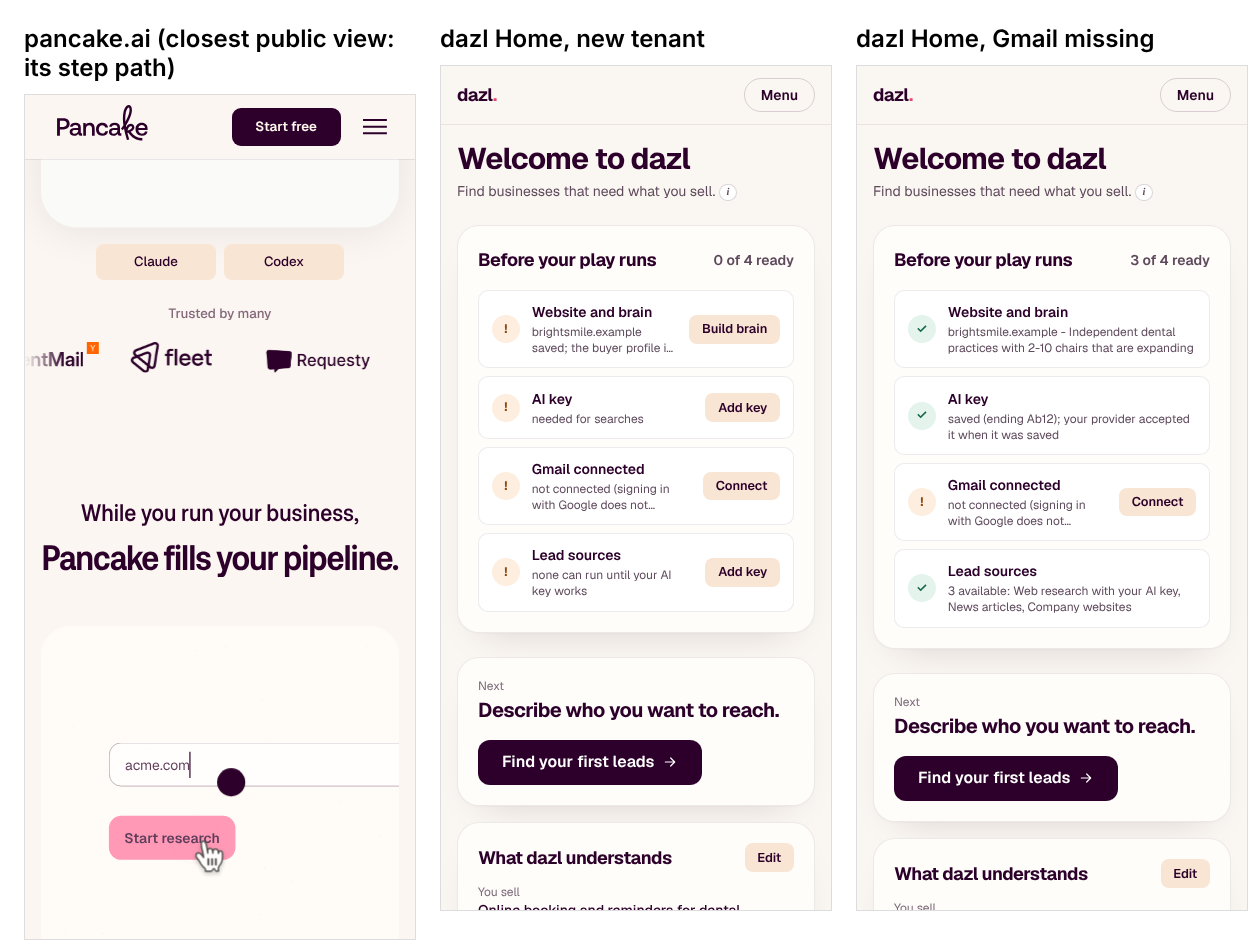
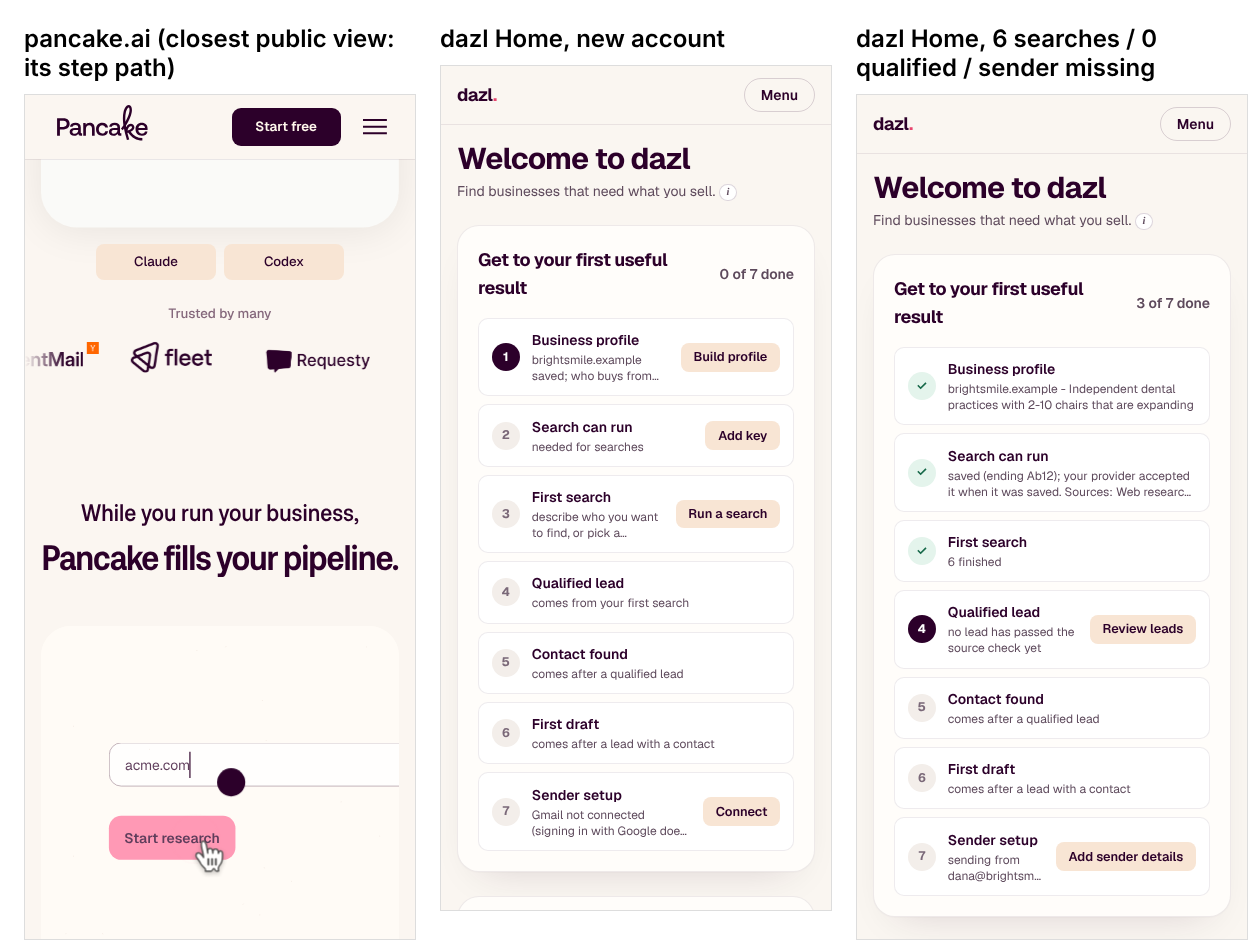
Home setup checklist: seven steps to the first useful result
Business profile -> search can run -> first search -> qualified lead ->
contact -> draft -> sender setup (Hermes #11), replacing the four-item
card. Qualified, contact and draft come from the campaigns read's complete
per-search counts (source-checked or confirmed by you, leads with a
contact, drafts) and the emails read; a capped or failed read is 'could
not check' with no button. Each step still to do that the user can act on
has one button straight to its fix; steps that wait on an earlier one have
none. The first actionable step is marked next. Sender setup separates
Gmail from the missing sender name and mailing address.

Claude-Session: https://claude.ai/code/session_01CafonXdzjwkFYiMRJWtsKo

diff --git a/web/lib/ready-card.ts b/web/lib/ready-card.ts
@@ -1,42 +1,84 @@
 import { readinessRows, type ReadinessInput, type Row } from './readiness.ts'
 import { coreSources, socialSources } from './scan/source-availability.ts'
 
-// Home's "ready to run" card: the four things a play needs to run well (website and brain, AI key, Gmail, lead
-// sources), read from the same rows as the full setup checklist (lib/readiness.ts), so the two never disagree. Pure and
-// client-safe. Each missing item has one link that goes straight to its fix; a row that could not be checked says so
-// and offers no fix. Sources are named only when a scan here can really use them.
+// Home's setup checklist toward the first useful result: business profile -> search can run -> first search ->
+// qualified lead -> contact -> draft -> sender setup. Read from the same tenant responses and rows as the full setup
+// checklist (lib/readiness.ts), so the two never disagree. Pure and client-safe. A step is done only on positive
+// evidence; a read that failed, or a capped read that found nothing, is "could not check" with no button. Each step
+// that is still to do has one button straight to its fix. Sources are named only when a scan here can use them.
 
-export type ReadyId = 'brain' | 'key' | 'gmail' | 'sources'
-export interface ReadyItem { id: ReadyId; label: string; state: Row['state']; detail: string; fix: { href: string; label: string } | null }
+export type ReadyId = 'profile' | 'search' | 'play' | 'qualified' | 'contact' | 'draft' | 'sender'
+export interface ReadyItem { id: ReadyId; label: string; state: Row['state']; detail: string; fix: { href: string; label: string } | null; next?: boolean }
 
-const KEY_FIX = '/app/settings#model-key'
+const KEY_FIX = '/app/settings#model-key', GMAIL_FIX = '/app/settings#gmail'
+// The reads' caps (lib/readiness.ts): a list this long may be missing older history.
+const CAMPAIGNS_CAP = 10, MESSAGES_CAP = 200, JOBS_CAP = 20
 
 export function readyItems(i: ReadinessInput): ReadyItem[] {
   const rows = readinessRows(i)
   const row = (id: Row['id']) => rows.find(r => r.id === id)!
-  const site = row('site'), brainRow = row('brain'), key = row('key'), gmail = row('gmail'), src = row('sources')
+  const site = row('site'), brainRow = row('brain'), key = row('key'), gmail = row('gmail'), sender = row('sender'), src = row('sources')
+  const unknown = (id: ReadyId, label: string, detail: string): ReadyItem => ({ id, label, state: 'unknown', detail, fix: null })
 
-  // Website and brain together: what dazl read from your site. The website is fixed first (the brain is drafted from it).
+  // 1. Business profile: the website, and the buyer profile drafted from it.
   const p = i.profile
-  const brain: ReadyItem = site.state === 'unknown' || brainRow.state === 'unknown' ? { id: 'brain', label: 'Website and brain', state: 'unknown', detail: site.detail, fix: null }
-    : !p?.website ? { id: 'brain', label: 'Website and brain', state: 'todo', detail: 'add your website so dazl can read who buys from you', fix: { href: '/app?setup=site', label: 'Add website' } }
-    : brainRow.state === 'todo' ? { id: 'brain', label: 'Website and brain', state: 'todo', detail: `${host(p.website)} saved; the buyer profile is not built yet`, fix: { href: '/app?setup=brain', label: 'Build brain' } }
-    : { id: 'brain', label: 'Website and brain', state: 'done', detail: `${host(p.website)} - ${brainRow.detail}`, fix: null }
+  const profile: ReadyItem = site.state === 'unknown' || brainRow.state === 'unknown' ? unknown('profile', 'Business profile', site.detail)
+    : !p?.website ? { id: 'profile', label: 'Business profile', state: 'todo', detail: 'add your website so dazl can read who buys from you', fix: { href: '/app?setup=site', label: 'Add website' } }
+    : brainRow.state === 'todo' ? { id: 'profile', label: 'Business profile', state: 'todo', detail: `${host(p.website)} saved; who buys from you is not built yet`, fix: { href: '/app?setup=brain', label: 'Build profile' } }
+    : { id: 'profile', label: 'Business profile', state: 'done', detail: `${host(p.website)} - ${brainRow.detail}`, fix: null }
 
-  const keyItem: ReadyItem = { id: 'key', label: 'AI key', state: key.state, detail: key.detail, fix: key.state === 'todo' ? { href: KEY_FIX, label: key.fix?.label ?? 'Add key' } : null }
-  const gmailItem: ReadyItem = { id: 'gmail', label: 'Gmail connected', state: gmail.state, detail: gmail.detail, fix: gmail.state === 'todo' && gmail.fix?.kind === 'link' ? { href: gmail.fix.href, label: gmail.fix.label } : null }
-
-  // Usable sources only. What cannot run is not listed here (the full checklist in Setup details explains it); when no
-  // source can run, the fix is the one thing the user can do: the AI key.
+  // 2. A search can run: a working AI key (or free searches) and the sources a scan here can use. Only usable ones named.
   const core = coreSources(i.sources ?? null, i.usage ? { has_key: i.usage.has_key, trial: i.usage.trial } : null)
   const usable = core ? [...core, ...socialSources(i.advanced ?? null)].filter(r => r.usable).map(r => r.label) : []
-  const sources: ReadyItem = src.state === 'unknown' ? { id: 'sources', label: 'Lead sources', state: 'unknown', detail: src.detail, fix: null }
-    : src.state === 'todo' ? { id: 'sources', label: 'Lead sources', state: 'todo', detail: 'none can run until your AI key works', fix: { href: KEY_FIX, label: key.fix?.label ?? 'Add key' } }
-    : { id: 'sources', label: 'Lead sources', state: 'done', detail: `${usable.length} available: ${usable.join(', ')}`, fix: null }
-  return [brain, keyItem, gmailItem, sources]
+  const search: ReadyItem = key.state === 'unknown' || src.state === 'unknown' ? unknown('search', 'Search can run', key.state === 'unknown' ? key.detail : src.detail)
+    : key.state === 'todo' || src.state === 'todo' ? { id: 'search', label: 'Search can run', state: 'todo', detail: key.state === 'todo' ? key.detail : 'no source can run until your AI key works', fix: { href: KEY_FIX, label: key.fix?.label ?? 'Add key' } }
+    : { id: 'search', label: 'Search can run', state: 'done', detail: `${key.detail}. Sources: ${usable.join(', ')}`, fix: null }
+
+  // 3. First search: a finished search of the account's own.
+  const own = i.jobs?.filter(j => j.query && !j.csv_domain && !j.test_only) ?? []
+  const finished = own.filter(j => j.status === 'done').sort((a, b) => b.created_at - a.created_at)
+  const running = own.find(j => ['pending', 'running', 'enriching'].includes(j.status))
+  const finishedN = Math.max(i.totals?.finished ?? 0, finished.length)
+  const latest = finished[0]
+  const leadsHref = latest ? `/app/leads?job_id=${latest.id}` : '/app/leads'
+  const play: ReadyItem = !i.jobs && !i.totals ? unknown('play', 'First search', 'could not check - your searches did not load')
+    : finishedN > 0 ? { id: 'play', label: 'First search', state: 'done', detail: `${finishedN} finished`, fix: null }
+    : running ? { id: 'play', label: 'First search', state: 'todo', detail: 'running now', fix: { href: `/app/leads?job_id=${running.id}`, label: 'Watch it live' } }
+    : !i.totals && (i.jobs?.length ?? 0) >= JOBS_CAP ? unknown('play', 'First search', `could not check - only your latest ${JOBS_CAP} scans could be checked`)
+    : { id: 'play', label: 'First search', state: 'todo', detail: 'describe who you want to find, or pick a suggested play', fix: { href: '/app/leads', label: 'Run a search' } }
+
+  // 4-6 from the campaigns read (the last 10 searches, with complete per-search counts) and the emails read.
+  const camps = i.campaigns ?? null, msgs = i.messages ?? null
+  const campsComplete = !!camps && camps.length < CAMPAIGNS_CAP
+  const sum = (f: (c: NonNullable<ReadinessInput['campaigns']>[number]) => number) => camps ? camps.reduce((n, c) => n + f(c), 0) : 0
+  const qualifiedN = sum(c => (c.qualification.sourceChecked ?? 0) + (c.qualification.confirmedByYou ?? 0))
+  const contactN = sum(c => c.contact?.withContact ?? 0)
+  const draftN = sum(c => c.outreach ? c.outreach.drafts + c.outreach.approved + c.outreach.sent : 0) + (msgs ? msgs.filter(m => m.status !== 'skipped').length : 0)
+  const campGap = !camps ? 'could not check - your searches\' results did not load' : `could not check - only your latest ${CAMPAIGNS_CAP} searches could be checked`
+  const noSearchYet = finishedN === 0
+  const qualified: ReadyItem = qualifiedN > 0 ? { id: 'qualified', label: 'Qualified lead', state: 'done', detail: `${qualifiedN} source-checked`, fix: null }
+    : !campsComplete ? unknown('qualified', 'Qualified lead', campGap)
+    : { id: 'qualified', label: 'Qualified lead', state: 'todo', detail: noSearchYet ? 'comes from your first search' : 'no lead has passed the source check yet', fix: noSearchYet ? null : { href: leadsHref, label: 'Review leads' } }
+  const contact: ReadyItem = contactN > 0 ? { id: 'contact', label: 'Contact found', state: 'done', detail: `${contactN} lead${contactN === 1 ? '' : 's'} with a contact`, fix: null }
+    : !campsComplete ? unknown('contact', 'Contact found', campGap)
+    : { id: 'contact', label: 'Contact found', state: 'todo', detail: qualifiedN > 0 ? 'none of your leads has a contact yet' : 'comes after a qualified lead', fix: qualifiedN > 0 ? { href: leadsHref, label: 'Find contact' } : null }
+  const draft: ReadyItem = draftN > 0 ? { id: 'draft', label: 'First draft', state: 'done', detail: `${draftN} email${draftN === 1 ? '' : 's'} drafted`, fix: null }
+    : !campsComplete || !msgs || msgs.length >= MESSAGES_CAP ? unknown('draft', 'First draft', !msgs ? 'could not check - your emails did not load' : campsComplete ? `could not check - only your latest ${MESSAGES_CAP} emails could be checked` : campGap)
+    : { id: 'draft', label: 'First draft', state: 'todo', detail: contactN > 0 ? 'approve a lead with a contact and dazl drafts the email' : 'comes after a lead with a contact', fix: contactN > 0 ? { href: leadsHref, label: 'Review leads' } : null }
+
+  // 7. Sender setup: Gmail connected, and the sender name and mailing address every email carries.
+  const senderItem: ReadyItem = gmail.state === 'unknown' || sender.state === 'unknown' ? unknown('sender', 'Sender setup', gmail.state === 'unknown' ? gmail.detail : sender.detail)
+    : gmail.state === 'todo' ? { id: 'sender', label: 'Sender setup', state: 'todo', detail: `Gmail ${gmail.detail}`, fix: { href: GMAIL_FIX, label: gmail.fix?.label ?? 'Connect' } }
+    : sender.state === 'todo' ? { id: 'sender', label: 'Sender setup', state: 'todo', detail: `${gmail.detail}; your sender name and mailing address are missing`, fix: { href: GMAIL_FIX, label: 'Add sender details' } }
+    : { id: 'sender', label: 'Sender setup', state: 'done', detail: `${gmail.detail}, as ${sender.detail}`, fix: null }
+
+  const items = [profile, search, play, qualified, contact, draft, senderItem]
+  const n = items.find(x => x.state === 'todo' && x.fix)
+  if (n) n.next = true
+  return items
 }
 
-// The card is shown until every item is done (a "could not check" item keeps it up).
+// The card is shown until every step is done (a "could not check" step keeps it up).
 export const readyComplete = (items: ReadyItem[]) => items.every(x => x.state === 'done')
 
 const host = (w: string) => w.replace(/^https?:\/\//, '').replace(/^www\./, '').replace(/\/$/, '')

diff --git a/web/test/ready-card.test.ts b/web/test/ready-card.test.ts
@@ -3,39 +3,60 @@ import assert from 'node:assert/strict'
 import { readyComplete, readyItems } from '../lib/ready-card.ts'
 import type { ReadinessInput } from '../lib/readiness.ts'
 
+const job = (id: string, status: string, created_at = 1) => ({ id, status, error: null, query: `play ${id}`, csv_domain: null, created_at, lead_count: 3 })
+const camp = (o: { sc?: number; you?: number; contacts?: number; drafts?: number; sent?: number } = {}) => ({ id: 'c', qualification: { rejected: 0, sourceChecked: o.sc ?? 0, confirmedByYou: o.you ?? 0 }, contact: { withContact: o.contacts ?? 0 }, outreach: { drafts: o.drafts ?? 0, approved: 0, sent: o.sent ?? 0 } })
 const all: ReadinessInput = {
   profile: { website: 'https://www.brightsmile.example', sells: 'Online booking for dental practices', business_name: 'Brightsmile', buyer: { summary: 'Independent dental practices with 2-10 chairs', who: ['Practice owner'] } },
   usage: { has_key: true }, keys: [{ vendor: 'anthropic', last4: 'Ab12', validated_at: 1 }], rejection: null,
-  outreach: { gmail: { email: 'dana@brightsmile.example', status: 'active' }, sender: { sender_name: 'Dana', postal_address: '1 Main St' }, daily_cap: 20 },
+  outreach: { gmail: { email: 'dana@brightsmile.example', status: 'active' }, sender: { sender_name: 'Dana Smith', postal_address: '1 Main St' }, daily_cap: 20 },
   sources: { web_index: false, news: true, websites: true }, advanced: { available: true, platforms: [{ platform: 'reddit', consent: false, connected: false, enabled: false }] },
+  jobs: [job('a1', 'done')], totals: { searches: 1, finished: 1 }, campaigns: [camp({ sc: 2, contacts: 1, drafts: 1 })], messages: [{ status: 'draft' }],
 }
-const st = (i: ReadinessInput) => readyItems(i).map(x => `${x.id}:${x.state}${x.fix ? `>${x.fix.href}` : ''}`)
+const st = (i: ReadinessInput) => readyItems(i).map(x => `${x.id}:${x.state}${x.next ? '*' : ''}${x.fix ? `>${x.fix.label}@${x.fix.href}` : ''}`)
 
-test('all four ready: the card is complete; sources names only what can run', () => {
+test('seven steps in order; all done -> complete; sources name only what can run', () => {
   const items = readyItems(all)
-  assert.deepEqual(st(all), ['brain:done', 'key:done', 'gmail:done', 'sources:done'])
+  assert.deepEqual(items.map(x => x.id), ['profile', 'search', 'play', 'qualified', 'contact', 'draft', 'sender'])
+  assert.deepEqual(items.map(x => x.state), Array(7).fill('done'))
   assert.equal(readyComplete(items), true)
+  assert.match(items[1].detail, /Sources: Web research with your AI key, News articles, Company websites$/, 'the operator-off index and unconsented Reddit are not named')
   assert.equal(items[0].detail, 'brightsmile.example - Independent dental practices with 2-10 chairs')
-  assert.equal(items[3].detail, '3 available: Web research with your AI key, News articles, Company websites', 'the operator-off index and unconsented Reddit are not named')
 })
 
-test('each missing item has one fix that goes straight to it', () => {
-  const i: ReadinessInput = { ...all, profile: { ...all.profile, buyer: null }, usage: { has_key: false }, keys: [], outreach: { ...all.outreach, gmail: null } }
-  assert.deepEqual(st(i), ['brain:todo>/app?setup=brain', 'key:todo>/app/settings#model-key', 'gmail:todo>/app/settings#gmail', 'sources:todo>/app/settings#model-key'])
-  assert.deepEqual(readyItems(i).map(x => x.fix?.label), ['Build brain', 'Add key', 'Connect', 'Add key'])
+test('a new account: one fix per step it can act on; later steps wait without a button', () => {
+  const i: ReadinessInput = { ...all, profile: { website: 'https://brightsmile.example', buyer: null }, usage: { has_key: false }, keys: [], outreach: { ...all.outreach, gmail: null }, jobs: [], totals: { searches: 0, finished: 0 }, campaigns: [], messages: [] }
+  assert.deepEqual(st(i), [
+    'profile:todo*>Build profile@/app?setup=brain', 'search:todo>Add key@/app/settings#model-key', 'play:todo>Run a search@/app/leads',
+    'qualified:todo', 'contact:todo', 'draft:todo', 'sender:todo>Connect@/app/settings#gmail'])
   assert.equal(readyComplete(readyItems(i)), false)
-  assert.deepEqual(st({ ...all, profile: { sells: 'x', buyer: null } })[0], 'brain:todo>/app?setup=site', 'no website: the website first')
-  assert.deepEqual(st({ ...all, outreach: { ...all.outreach, gmail: { email: 'd@x.example', status: 'revoked' } } })[2], 'gmail:todo>/app/settings#gmail')
+  assert.equal(st({ ...i, profile: { sells: 'x', buyer: null } })[0], 'profile:todo*>Add website@/app?setup=site')
 })
 
-test('free searches count as a working key; a rejected key is a to-do with Replace key', () => {
-  assert.deepEqual(st({ ...all, usage: { has_key: false, trial: { funded: true, remaining: 2 } }, keys: [] }).slice(1, 4), ['key:done', 'gmail:done', 'sources:done'])
-  const rej = readyItems({ ...all, rejection: { error: 'key_rejected' } })
-  assert.deepEqual(rej.map(x => `${x.id}:${x.state}:${x.fix?.label ?? ''}`).slice(1), ['key:todo:Replace key', 'gmail:done:', 'sources:todo:Replace key'])
+test('Hermes case: searches ran, 0 source-checked, 0 contacts, Gmail on but sender details missing', () => {
+  const i: ReadinessInput = { ...all, jobs: [job('a1', 'done', 1), job('b2', 'done', 5)], totals: { searches: 6, finished: 6 }, campaigns: [camp(), camp()], messages: [], outreach: { ...all.outreach, sender: { sender_name: '', postal_address: '' } } }
+  assert.deepEqual(st(i), [
+    'profile:done', 'search:done', 'play:done',
+    'qualified:todo*>Review leads@/app/leads?job_id=b2', 'contact:todo', 'draft:todo', 'sender:todo>Add sender details@/app/settings#gmail'])
+  assert.match(readyItems(i)[6].detail, /sending from dana@brightsmile\.example; your sender name and mailing address are missing/)
 })
 
-test('reads that fail are "could not check", with no fix and the card kept up', () => {
-  const i: ReadinessInput = { profile: null, usage: null, outreach: null, sources: null }
-  assert.deepEqual(st(i), ['brain:unknown', 'key:unknown', 'gmail:unknown', 'sources:unknown'])
-  assert.equal(readyComplete(readyItems(i)), false)
+test('contact then draft: each fix opens the latest search\'s leads', () => {
+  const i: ReadinessInput = { ...all, campaigns: [camp({ sc: 3 })], messages: [] }
+  assert.deepEqual(st(i).slice(3, 6), ['qualified:done', 'contact:todo*>Find contact@/app/leads?job_id=a1', 'draft:todo'])
+  const j: ReadinessInput = { ...all, campaigns: [camp({ sc: 3, contacts: 2 })], messages: [] }
+  assert.deepEqual(st(j).slice(4, 6), ['contact:done', 'draft:todo*>Review leads@/app/leads?job_id=a1'])
+  assert.equal(st({ ...all, campaigns: [camp({ you: 1 })] })[3], 'qualified:done', 'a lead you confirmed counts')
+})
+
+test('a running first search links to its live view; free searches count as a working key; a rejected key is Replace key', () => {
+  assert.equal(st({ ...all, jobs: [job('r1', 'running')], totals: { searches: 1, finished: 0 }, campaigns: [] })[2], 'play:todo*>Watch it live@/app/leads?job_id=r1')
+  assert.equal(st({ ...all, usage: { has_key: false, trial: { funded: true, remaining: 2 } }, keys: [] })[1], 'search:done')
+  assert.equal(st({ ...all, rejection: { error: 'key_rejected' } })[1], 'search:todo*>Replace key@/app/settings#model-key')
+})
+
+test('failed or capped reads are "could not check": no button, never a tick, card kept up', () => {
+  assert.deepEqual(readyItems({ profile: null, usage: null, outreach: null, sources: null, jobs: null, totals: null, campaigns: null, messages: null }).map(x => `${x.state}${x.fix ? '+fix' : ''}`), Array(7).fill('unknown'))
+  const capped = readyItems({ ...all, campaigns: Array.from({ length: 10 }, () => camp()), messages: [] })
+  assert.deepEqual(capped.slice(3, 6).map(x => x.state), ['unknown', 'unknown', 'unknown'])
+  assert.equal(readyComplete(capped), false)
 })

diff --git a/web/app/app/ready-card.tsx b/web/app/app/ready-card.tsx
@@ -4,8 +4,9 @@ import { useEffect, useState } from 'react'
 import { readyComplete, readyItems, type ReadyItem } from '@/lib/ready-card'
 import { loadReadinessInput } from './readiness-input'
 
-// Home's "ready to run" card: website and brain, AI key, Gmail, lead sources. Each missing item has one button straight
-// to its fix (secondary: Home keeps one primary action). Read-only; gone once all four are done.
+// Home's setup checklist toward the first useful result (lib/ready-card.ts). Each step still to do has one button straight
+// to its fix (secondary: Home keeps one primary action; the next step is marked by its dark dot). Read-only; gone once
+// every step is done.
 export default function ReadyCard() {
   const [items, setItems] = useState<ReadyItem[] | null>(null)
   useEffect(() => {
@@ -19,15 +20,15 @@ export default function ReadyCard() {
   return (
     <section className="card p-5 sm:p-6 mb-6" data-testid="ready-card" aria-labelledby="rc-title">
       <div className="flex items-center justify-between gap-3">
-        <h2 id="rc-title" className="text-lg font-bold tracking-tight">Before your play runs</h2>
-        <span className="text-sm font-semibold text-[var(--ink-2)] shrink-0" data-testid="rc-progress">{done} of {items.length} ready</span>
+        <h2 id="rc-title" className="text-lg font-bold tracking-tight">Get to your first useful result</h2>
+        <span className="text-sm font-semibold text-[var(--ink-2)] shrink-0" data-testid="rc-progress">{done} of {items.length} done</span>
       </div>
       <ul className="rc-grid mt-4">
-        {items.map(x => (
-          <li key={x.id} className="rc-item" data-testid={`rc-${x.id}`} data-rc-state={x.state}>
-            <span aria-hidden className={`rc-dot ${x.state === 'done' ? 'rc-dot-done' : ''}`}>{x.state === 'done' ? '✓' : x.state === 'unknown' ? '?' : '!'}</span>
+        {items.map((x, n) => (
+          <li key={x.id} className="rc-item" data-testid={`rc-${x.id}`} data-rc-state={x.state} data-rc-next={x.next ? 'true' : undefined}>
+            <span aria-hidden className={`rc-dot ${x.state === 'done' ? 'rc-dot-done' : x.next ? 'rc-dot-next' : ''}`}>{x.state === 'done' ? '✓' : x.state === 'unknown' ? '?' : n + 1}</span>
             <div className="min-w-0 flex-1">
-              <div className="font-semibold text-sm">{x.label}<span className="sr-only">{x.state === 'done' ? ' (ready)' : x.state === 'unknown' ? ' (could not check)' : ' (missing)'}</span></div>
+              <div className="font-semibold text-sm">{x.label}<span className="sr-only">{x.state === 'done' ? ' (done)' : x.state === 'unknown' ? ' (could not check)' : x.next ? ' (next step)' : ' (to do)'}</span></div>
               <div className="text-xs text-[var(--ink-2)] mt-0.5 break-words line-clamp-2" title={x.detail}>{x.detail}</div>
             </div>
             {x.fix && (x.fix.href.includes('?setup=')

diff --git a/web/app/globals.css b/web/app/globals.css
@@ -123,7 +123,7 @@ body { font-size: 16px; line-height: 1.5; }
 /* Pills: status and source chips. */
 .pill { display: inline-flex; align-items: center; gap: .35rem; font-size: .72rem; font-weight: 600; line-height: 1; padding: .3rem .55rem; border-radius: 6px; background: #f3eeea; color: var(--ink, #2c002a); white-space: nowrap; }
 .pill-mint { background: var(--mint-bg); color: #17694a; }
-.pill-peach { background: var(--peach-bg); color: #8a4a12; }
+.pill-peach { background: #f3eeea; color: var(--ink-3); }
 .pill-pink { background: var(--pink-bg); color: #a3173f; }
 .pill-lav { background: var(--lav-bg); color: #5b2ca8; }
 .pill-plain { background: #fff; border: 1px solid var(--line-2); font-weight: 500; }
@@ -174,9 +174,9 @@ body { font-size: 16px; line-height: 1.5; }
 .lp-fade.lp-in { opacity: 1; transform: none; }
 @media (prefers-reduced-motion: reduce) { .lp-fade, .lp-tick { transition: none; } .lp-caret, .lp-tick-now { animation: none; } }
 
-/* Home's "ready to run" card: two columns of items on wide screens, one on narrow. */
+/* Home's setup checklist (app/app/ready-card.tsx): one step per row. */
 .rc-grid { display: grid; gap: .5rem; }
-@media (min-width: 900px) { .rc-grid { grid-template-columns: repeat(2, minmax(0, 1fr)); gap: .6rem 1.25rem; } }
 .rc-item { display: flex; gap: .75rem; align-items: center; padding: .7rem .8rem; border: 1px solid var(--line); border-radius: 10px; background: #fff; }
-.rc-dot { width: 1.75rem; height: 1.75rem; border-radius: 999px; display: inline-flex; align-items: center; justify-content: center; font-size: .78rem; font-weight: 700; flex-shrink: 0; background: var(--peach-bg); color: #8a4a12; }
+.rc-dot { width: 1.75rem; height: 1.75rem; border-radius: 999px; display: inline-flex; align-items: center; justify-content: center; font-size: .78rem; font-weight: 700; flex-shrink: 0; background: #f3eeea; color: var(--ink-3); }
 .rc-dot-done { background: var(--mint-bg); color: #17694a; }
+.rc-dot-next { background: var(--ink); color: #fff; }

diff --git a/web/lib/readiness.ts b/web/lib/readiness.ts
@@ -27,7 +27,7 @@ export interface ReadinessInput {
   // last 10 searches, with complete per-scan rejected and email counts). null when they could not be loaded; omitted by
   // callers that only check other rows.
   messages?: { status: string; lead_id?: string }[] | null
-  campaigns?: { id: string; qualification: { rejected: number }; outreach?: { drafts: number; approved: number; sent: number } }[] | null
+  campaigns?: { id: string; qualification: { rejected: number; sourceChecked?: number; confirmedByYou?: number }; contact?: { withContact: number }; outreach?: { drafts: number; approved: number; sent: number } }[] | null
 }
 export type Fix = { kind: 'link'; href: string; label: string } | { kind: 'inline'; label: string }
 export interface Row { id: 'site' | 'brain' | 'play' | 'key' | 'sources' | 'scan' | 'review' | 'gmail' | 'sender' | 'approved' | 'limit'; label: string; state: 'done' | 'todo' | 'unknown'; detail: string; fix: Fix | null; next?: boolean }
